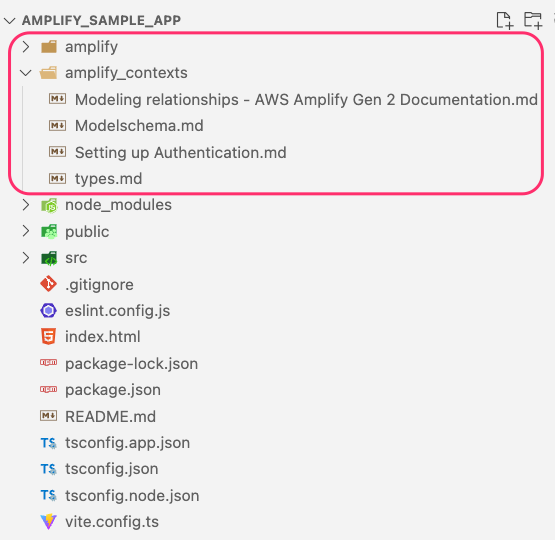
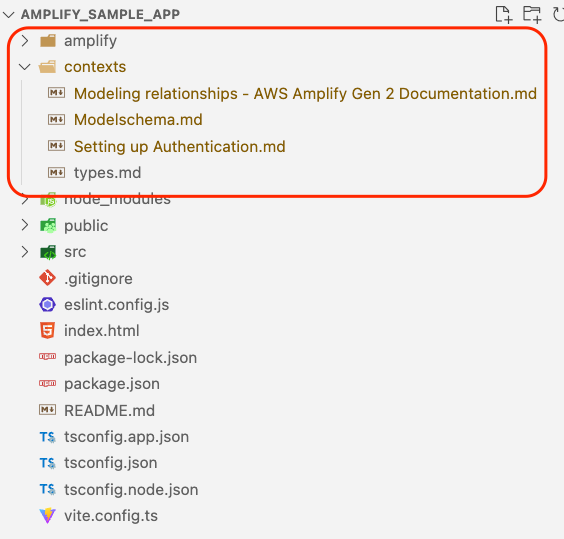
Updates

Changed region(s): [[0.0, 0.0, 1.0, 0.9796]]

diff --git a/README.md b/README.md
@@ -3,7 +3,7 @@
 
 # Amplify Best Practices and Reference Guide
 
-This repository provides comprehensive guides (**`amplify_contexts`**) designed to be used as context for Amazon Q Developer Chat in your IDE via the `@workspace` command. By integrating these guides, you can enhance Amazon Q's capabilities and accuracy in generating AWS Amplify Gen 2 code. The repository includes detailed instructions, examples, and best practices for:
+This repository provides comprehensive guides (**`contexts`**) designed to be used as context for Amazon Q Developer Chat in your IDE via the `@workspace` command. By integrating these guides, you can enhance Amazon Q's capabilities and accuracy in generating AWS Amplify Gen 2 code. The repository includes detailed instructions, examples, and best practices for:
 
 - Data modeling techniques (e.g., one-to-many, one-to-one relationships)
 - Schema rules for precise and error-free configuration
@@ -49,7 +49,7 @@ npm create amplify@latest -y
 
 This will set up Amplify in your project and initialize the required configuration files.
 
-1. Copy the (**`amplify_contexts`**) folder into the root folder of your project. The project structure should look like this:
+1. Copy the (**`contexts`**) folder into the root folder of your project. The project structure should look like this:
 
 ![project-structure](project_folders.png)
 
@@ -73,10 +73,23 @@ After successful indexing, reference the markdown file content in your queries t
 ```bash
 
 
-@workspace use the amplify_contexts folder to follow the rules and point out where you use it:Design a data schema for an e-commerce app using Amplify Gen 2. Include models for products, categories, orders, and users. Provide API usage example to show how to fetch products for an e-commerce app using Amplify Gen 2
+@workspace follow MODELING, SCHEMA and AUTH to develop a data model schema for a freelance marketplace using Amplify Gen 2. Include models for freelancers, clients, projects, bids, and reviews. Use Amplify Gen 2 to fetch a list of projects
 
 ```
 
+```bash
+
+
+@workspace follow MODELING, SCHEMA and AUTH to design a data schema for an event management application using Amplify Gen 2. Include models for users, events, and tickets. Show me how to use Amplify Gen 2 to fetch a list of events.
+
+```
+
+```bash
+
+
+@workspace follow MODELING, SCHEMA and AUTH to develop a data schema and API usage examples for a car rental service using Amplify Gen 2. Include models for vehicles, customers, rentals, and locations. Demonstrate how to fetch a list of vehicles
+
+```
 
 
 ---
